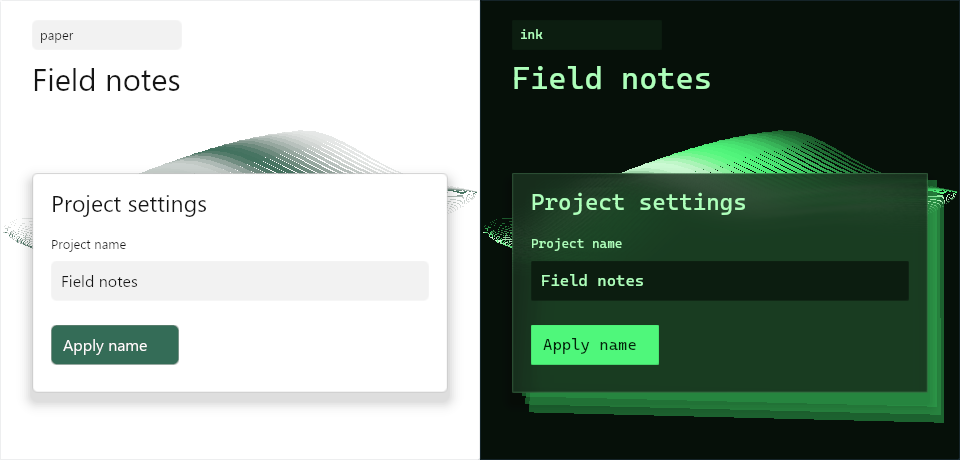
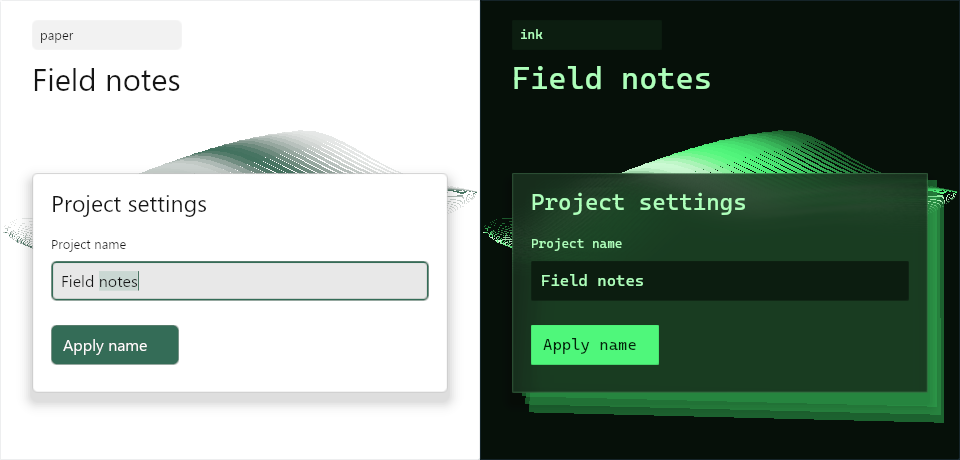
Select text by dragging across retained input fields

Changed region(s): [[0.0625, 0.5478, 0.4375, 0.6696]]

diff --git a/src/swirui/widgets/input.py b/src/swirui/widgets/input.py
@@ -123,6 +123,7 @@ class _TextInputBase(Widget):
         self._padding = self._validate_non_negative(padding, "padding")
         self._caret = len(self._value)
         self._selection_anchor: int | None = None
+        self._selection_pointer: tuple[float, float] | None = None
         self._focused = False
         self._horizontal_offset = 0.0
         self._preferred_caret_x: float | None = None
@@ -144,6 +145,9 @@ class _TextInputBase(Widget):
             accessible_description=accessible_description,
         )
         self.on("pointer_down", self._on_pointer_down)
+        self.on("pointer_move", self._extend_pointer_selection)
+        self.on("pointer_up", self._extend_pointer_selection)
+        self.on("pointer_capture_lost", self._selection_capture_lost)
         self.on("key_down", self._on_key_down)
         self.on("text_input", self._on_text_input)
         self.on("focus_gained", self._on_focus_gained)
@@ -167,6 +171,8 @@ class _TextInputBase(Widget):
         )
 
     def on_unmount(self, window: Window) -> None:
+        if self._selection_pointer is not None:
+            window.release_pointer_capture(self)
         super().on_unmount(window)
         # Layout keys include their provider; release the font system when a
         # detached control outlives its window instead of retaining it in LRU keys.
@@ -571,6 +577,8 @@ class _TextInputBase(Widget):
         return self._mask_character * len(self._value)
 
     def _on_pointer_down(self, event: Event) -> None:
+        if event.source is not self or event.default_prevented:
+            return
         platform_event = self._platform_event(event, PlatformEventKind.POINTER_DOWN)
         if (
             not self.enabled
@@ -581,7 +589,28 @@ class _TextInputBase(Widget):
         ):
             return
         index = self._index_from_point(platform_event.x, platform_event.y)
+        window = self.mounted_window
+        if window is not None and window.focused_component is self:
+            self._selection_pointer = (platform_event.x, platform_event.y)
+            window.capture_pointer(self)
         self._move_caret(index, extend=platform_event.shift)
+
+    def _extend_pointer_selection(self, event: Event) -> None:
+        if self._selection_pointer is None or not self.enabled or event.source is not self:
+            return
+        pointer = event.data.get("event")
+        if not isinstance(pointer, PlatformEvent) or pointer.x is None or pointer.y is None:
+            return
+        if event.type == "pointer_up" and pointer.button is not PointerButton.LEFT:
+            return
+        # Releasing at the same point must not advance again after the caret scrolled into view.
+        point = (pointer.x, pointer.y)
+        if point != self._selection_pointer:
+            self._selection_pointer = point
+            self._move_caret(self._index_from_point(*point), extend=True)
+
+    def _selection_capture_lost(self, _event: Event) -> None:
+        self._selection_pointer = None
 
     def _on_key_down(self, event: Event) -> None:
         platform_event = self._platform_event(event, PlatformEventKind.KEY_DOWN)
@@ -680,6 +709,8 @@ class _TextInputBase(Widget):
             self.invalidate(reason="focus_gained")
 
     def _on_focus_lost(self, _event: Event) -> None:
+        if self._selection_pointer is not None and self.mounted_window is not None:
+            self.mounted_window.release_pointer_capture(self)
         if self._focused:
             self._focused = False
             self._selection_anchor = None

diff --git a/tests/test_text_inputs.py b/tests/test_text_inputs.py
@@ -202,3 +202,48 @@ def test_text_input_validation_and_programmatic_normalization() -> None:
         Input(bounds=Rect(0.0, 0.0, 120.0, 36.0), max_length=-1)
     with pytest.raises(ValueError, match="mask_character"):
         PasswordInput(bounds=Rect(0.0, 0.0, 120.0, 36.0), mask_character="\n")
+
+
+def _pointer(window, kind, x, y, *, shift=False):
+    window._apply_platform_event(PlatformEvent(
+        kind, NativeWindowHandle(1), x=x * window.scale, y=y * window.scale,
+        button=None if kind is PlatformEventKind.POINTER_MOVE else PointerButton.LEFT,
+        shift=shift,
+    ))
+
+
+def test_drag_selects_backwards_outside_read_only_input_and_keeps_shift_anchor():
+    window = Window(width=400, height=180)
+    field = Input("abcdef", bounds=Rect(20, 20, 150, 44), read_only=True)
+    mount(window, field)
+    down, move, up = (PlatformEventKind.POINTER_DOWN, PlatformEventKind.POINTER_MOVE,
+                      PlatformEventKind.POINTER_UP)
+    _pointer(window, down, 160, 40)
+    assert window.pointer_capture_component is field
+    _pointer(window, move, 49, 40)
+    assert field.selected_text == "cdef"
+    _pointer(window, up, -10, 40)
+    assert field.selected_text == "abcdef" and field.caret_index == 0
+    assert window.pointer_capture_component is None
+    _pointer(window, move, 140, 40)
+    assert field.caret_index == 0
+    _pointer(window, down, 49, 40, shift=True)
+    _pointer(window, up, 58, 40)
+    assert field.selected_text == "def" and field.value == "abcdef"
+
+
+def test_multiline_drag_ends_on_capture_loss_and_unmount():
+    window = Window(width=400, height=180)
+    root = Component("root")
+    area = TextArea("one\ntwo\nthree", bounds=Rect(20, 20, 220, 120))
+    root.add(area)
+    mount(window, root)
+    _pointer(window, PlatformEventKind.POINTER_DOWN, 39, 32)
+    _pointer(window, PlatformEventKind.POINTER_MOVE, 49, 73)
+    assert area.selected_text == "ne\ntwo\nth"
+    window.release_pointer_capture()
+    _pointer(window, PlatformEventKind.POINTER_MOVE, 90, 32)
+    assert area.selected_text == "ne\ntwo\nth"
+    _pointer(window, PlatformEventKind.POINTER_DOWN, 39, 32)
+    root.remove(area)
+    assert window.pointer_capture_component is None

diff --git a/tests/test_windows_text_geometry.py b/tests/test_windows_text_geometry.py
@@ -1,5 +1,6 @@
 """Native glyph metrics and actual wgpu pixels for proportional input text."""
 
+import ctypes
 import sys
 
 import pytest
@@ -85,13 +86,34 @@ def test_real_wgpu_input_caret_sits_beside_text_and_selection_uses_font_width():
                     red.append(x)
         assert white and red
         assert -1 <= min(red) - max(white) <= 4 * window.scale
-        field.select(0, 4)
+        layout = window._text_shaper.shape_line("iiiiWW", 24, "Segoe UI", window.scale)
+        user32 = app.platform_backend._user32
+        send = user32.SendMessageW
+        send.argtypes = [ctypes.c_void_p, ctypes.c_uint, ctypes.c_size_t, ctypes.c_ssize_t]
+        send.restype = ctypes.c_ssize_t
+        hwnd = window.native_handle.value
+
+        def mouse(message, flags, caret):
+            x = round((30 + layout.carets[caret]) * window.scale)
+            y = round(44 * window.scale)
+            send(hwnd, message, flags, (y << 16) | x)
+            app.process_events()
+
+        mouse(0x0201, 1, 0)  # Left button down at the first glyph
+        assert user32.GetCapture() == hwnd
+        mouse(0x0200, 1, 4)  # Drag across the four narrow letters
+        assert field.selected_text == "iiii"
+        mouse(0x0202, 0, 4)
+        assert window.pointer_capture_component is None and not user32.GetCapture()
         width, _height, rgba = pixels()
         # Below glyph ink, the blue selection ends at the fourth narrow letter.
         y = round(59 * window.scale)
         blue = [x for x in range(width) if rgba[(y * width + x) * 4 + 2] > 180]
-        layout = window._text_shaper.shape_line("iiiiWW", 24, "Segoe UI", window.scale)
         assert blue
         assert max(blue) == pytest.approx((30 + layout.carets[4]) * window.scale, abs=2)
+        # A Shift+click delivered by Win32 keeps the original end of the selection anchored.
+        mouse(0x0201, 0x0005, 6)
+        mouse(0x0202, 0x0004, 6)
+        assert field.selected_text == "iiiiWW"
     finally:
         app.stop()

diff --git a/src/swirui/platforms/_windows_legacy.py b/src/swirui/platforms/_windows_legacy.py
@@ -36,6 +36,8 @@ _WM_KEYDOWN = 0x0100
 _WM_KEYUP = 0x0101
 _WM_CHAR = 0x0102
 _WM_MOUSEMOVE = 0x0200
+_MK_SHIFT = 0x0004
+_MK_CONTROL = 0x0008
 _WM_LBUTTONDOWN = 0x0201
 _WM_LBUTTONUP = 0x0202
 _WM_RBUTTONDOWN = 0x0204
@@ -595,7 +597,7 @@ class Win32PlatformBackend:
                 self._events.append(PlatformEvent(PlatformEventKind.FOCUS, handle, focused=False))
             elif message == _WM_MOUSEMOVE:
                 self._events.append(
-                    self._pointer_event(PlatformEventKind.POINTER_MOVE, handle, lparam)
+                    self._pointer_event(PlatformEventKind.POINTER_MOVE, handle, lparam, wparam)
                 )
             elif message in (_WM_LBUTTONDOWN, _WM_RBUTTONDOWN, _WM_MBUTTONDOWN):
                 self._events.append(
@@ -603,6 +605,7 @@ class Win32PlatformBackend:
                         PlatformEventKind.POINTER_DOWN,
                         handle,
                         lparam,
+                        wparam,
                         self._pointer_button(message),
                     )
                 )
@@ -612,6 +615,7 @@ class Win32PlatformBackend:
                         PlatformEventKind.POINTER_UP,
                         handle,
                         lparam,
+                        wparam,
                         self._pointer_button(message),
                     )
                 )
@@ -644,6 +648,7 @@ class Win32PlatformBackend:
         kind: PlatformEventKind,
         handle: NativeWindowHandle,
         lparam: int,
+        key_state: int,
         button: PointerButton | None = None,
     ) -> PlatformEvent:
         return PlatformEvent(
@@ -652,6 +657,8 @@ class Win32PlatformBackend:
             x=float(_signed_word(int(lparam))),
             y=float(_signed_word(int(lparam) >> 16)),
             button=button,
+            shift=bool(key_state & _MK_SHIFT),
+            ctrl=bool(key_state & _MK_CONTROL),
         )
 
     @staticmethod

diff --git a/docs/development-0.2.md b/docs/development-0.2.md
@@ -69,7 +69,11 @@ python -m swirui preview-theme field-notes.json --variant ink
 python -m swirui preview-theme field-notes.json --variant ink --variant paper
 ```
 
-The first command produced this Windows/wgpu frame on AMD Radeon graphics
-using DX12. Listing the variant keys works without a graphics backend.
+The first command opens the window below. In the paper variant, drag across
+the word **notes** in the project name field. The highlight follows the
+rendered letters. Release the mouse to keep the selection, or Shift+click to
+extend it. The same gesture works in your own `Input` and `TextArea` controls,
+including read-only fields. You can drag across lines in a `TextArea`.
+Listing the variant keys works without a graphics backend.
 
-![Field notes in its paper and ink variants, captured from the native renderer without a cursor](screenshots/saved-theme-preview.png)
+![The word notes selected in the paper variant beside the ink variant, captured without a cursor on Windows using AMD Radeon graphics and DX12](screenshots/saved-theme-preview.png)

diff --git a/README.md b/README.md
@@ -30,6 +30,8 @@ dark and light versions side by side. Both versions follow changes to the
 material, accent and corners while the comparison is open. Use **Copy
 theme JSON** to bring the same design into your own app. To try a saved
 package, run `python -m swirui preview-theme studio-theme.json`.
+Text fields in the preview and in your own apps support mouse drag selection.
+On Windows, Shift+click extends the selection from its original anchor.
 [Try the development preview](https://github.com/Swir/Swirui/blob/development/0.2/docs/development-0.2.md).
 
 ![SwirUI Studio in dark appearance, captured without a cursor](https://raw.githubusercontent.com/Swir/Swirui/v0.1.0b6/docs/screenshots/studio-dark.png)
